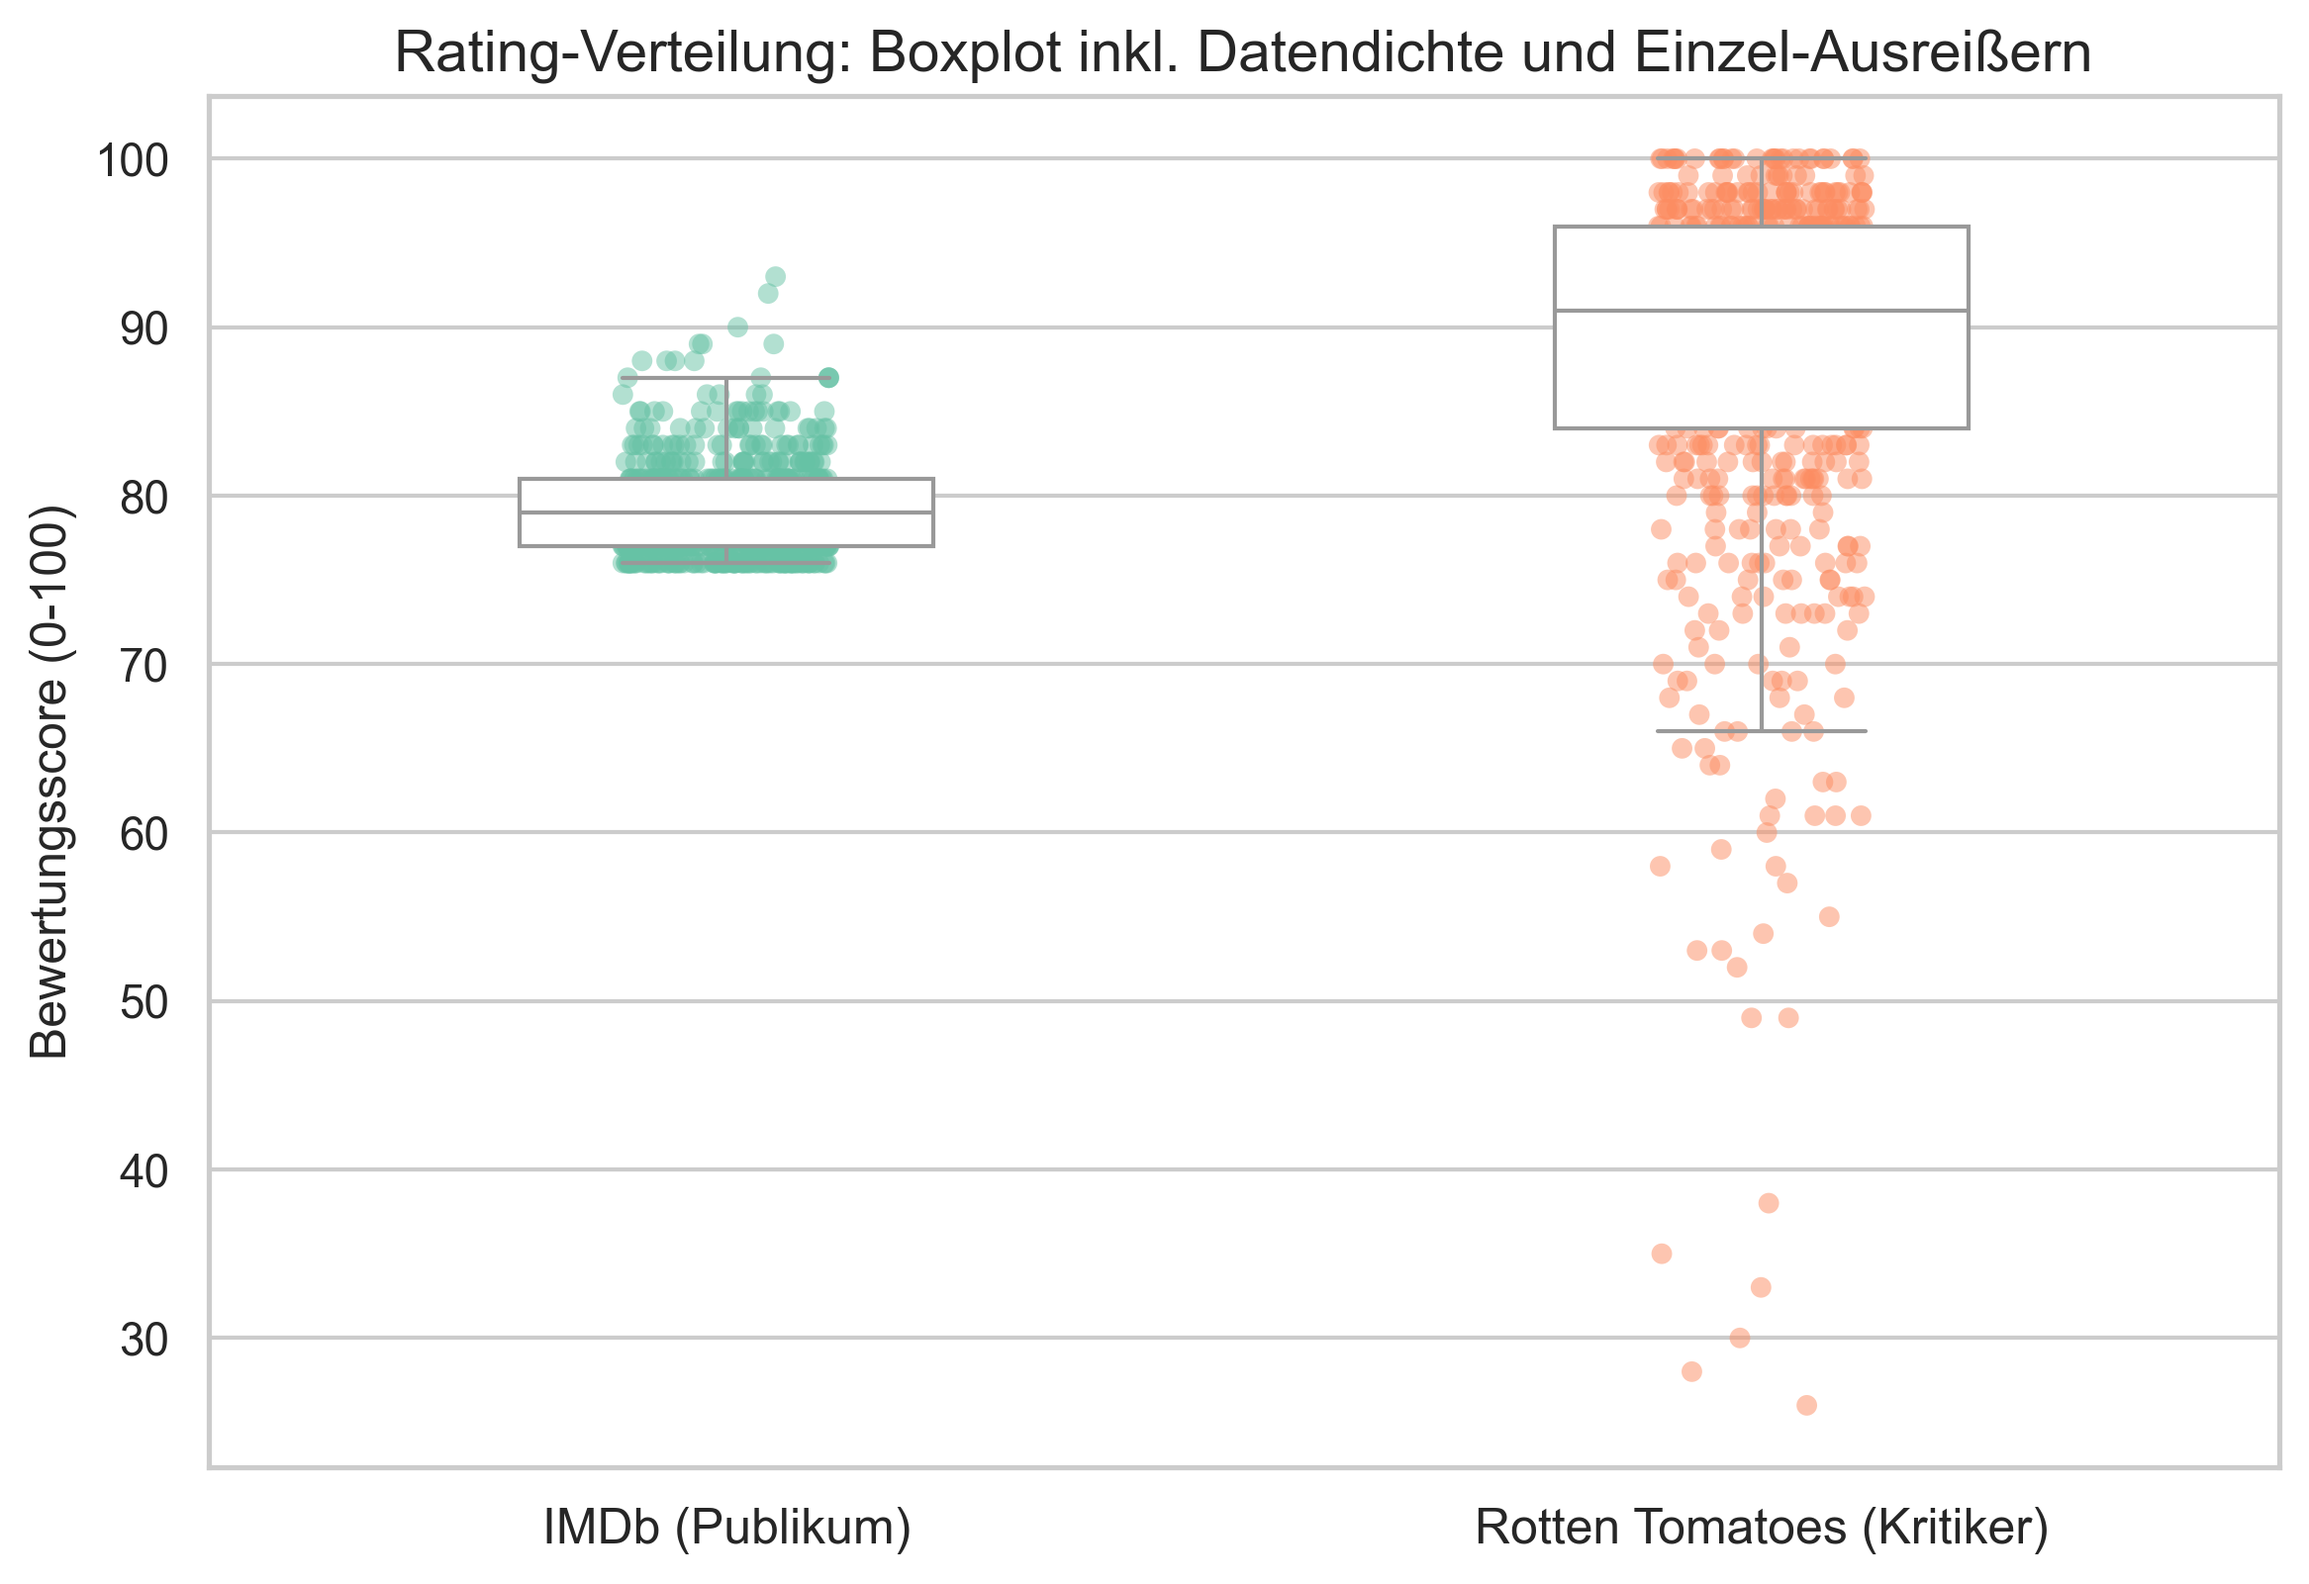
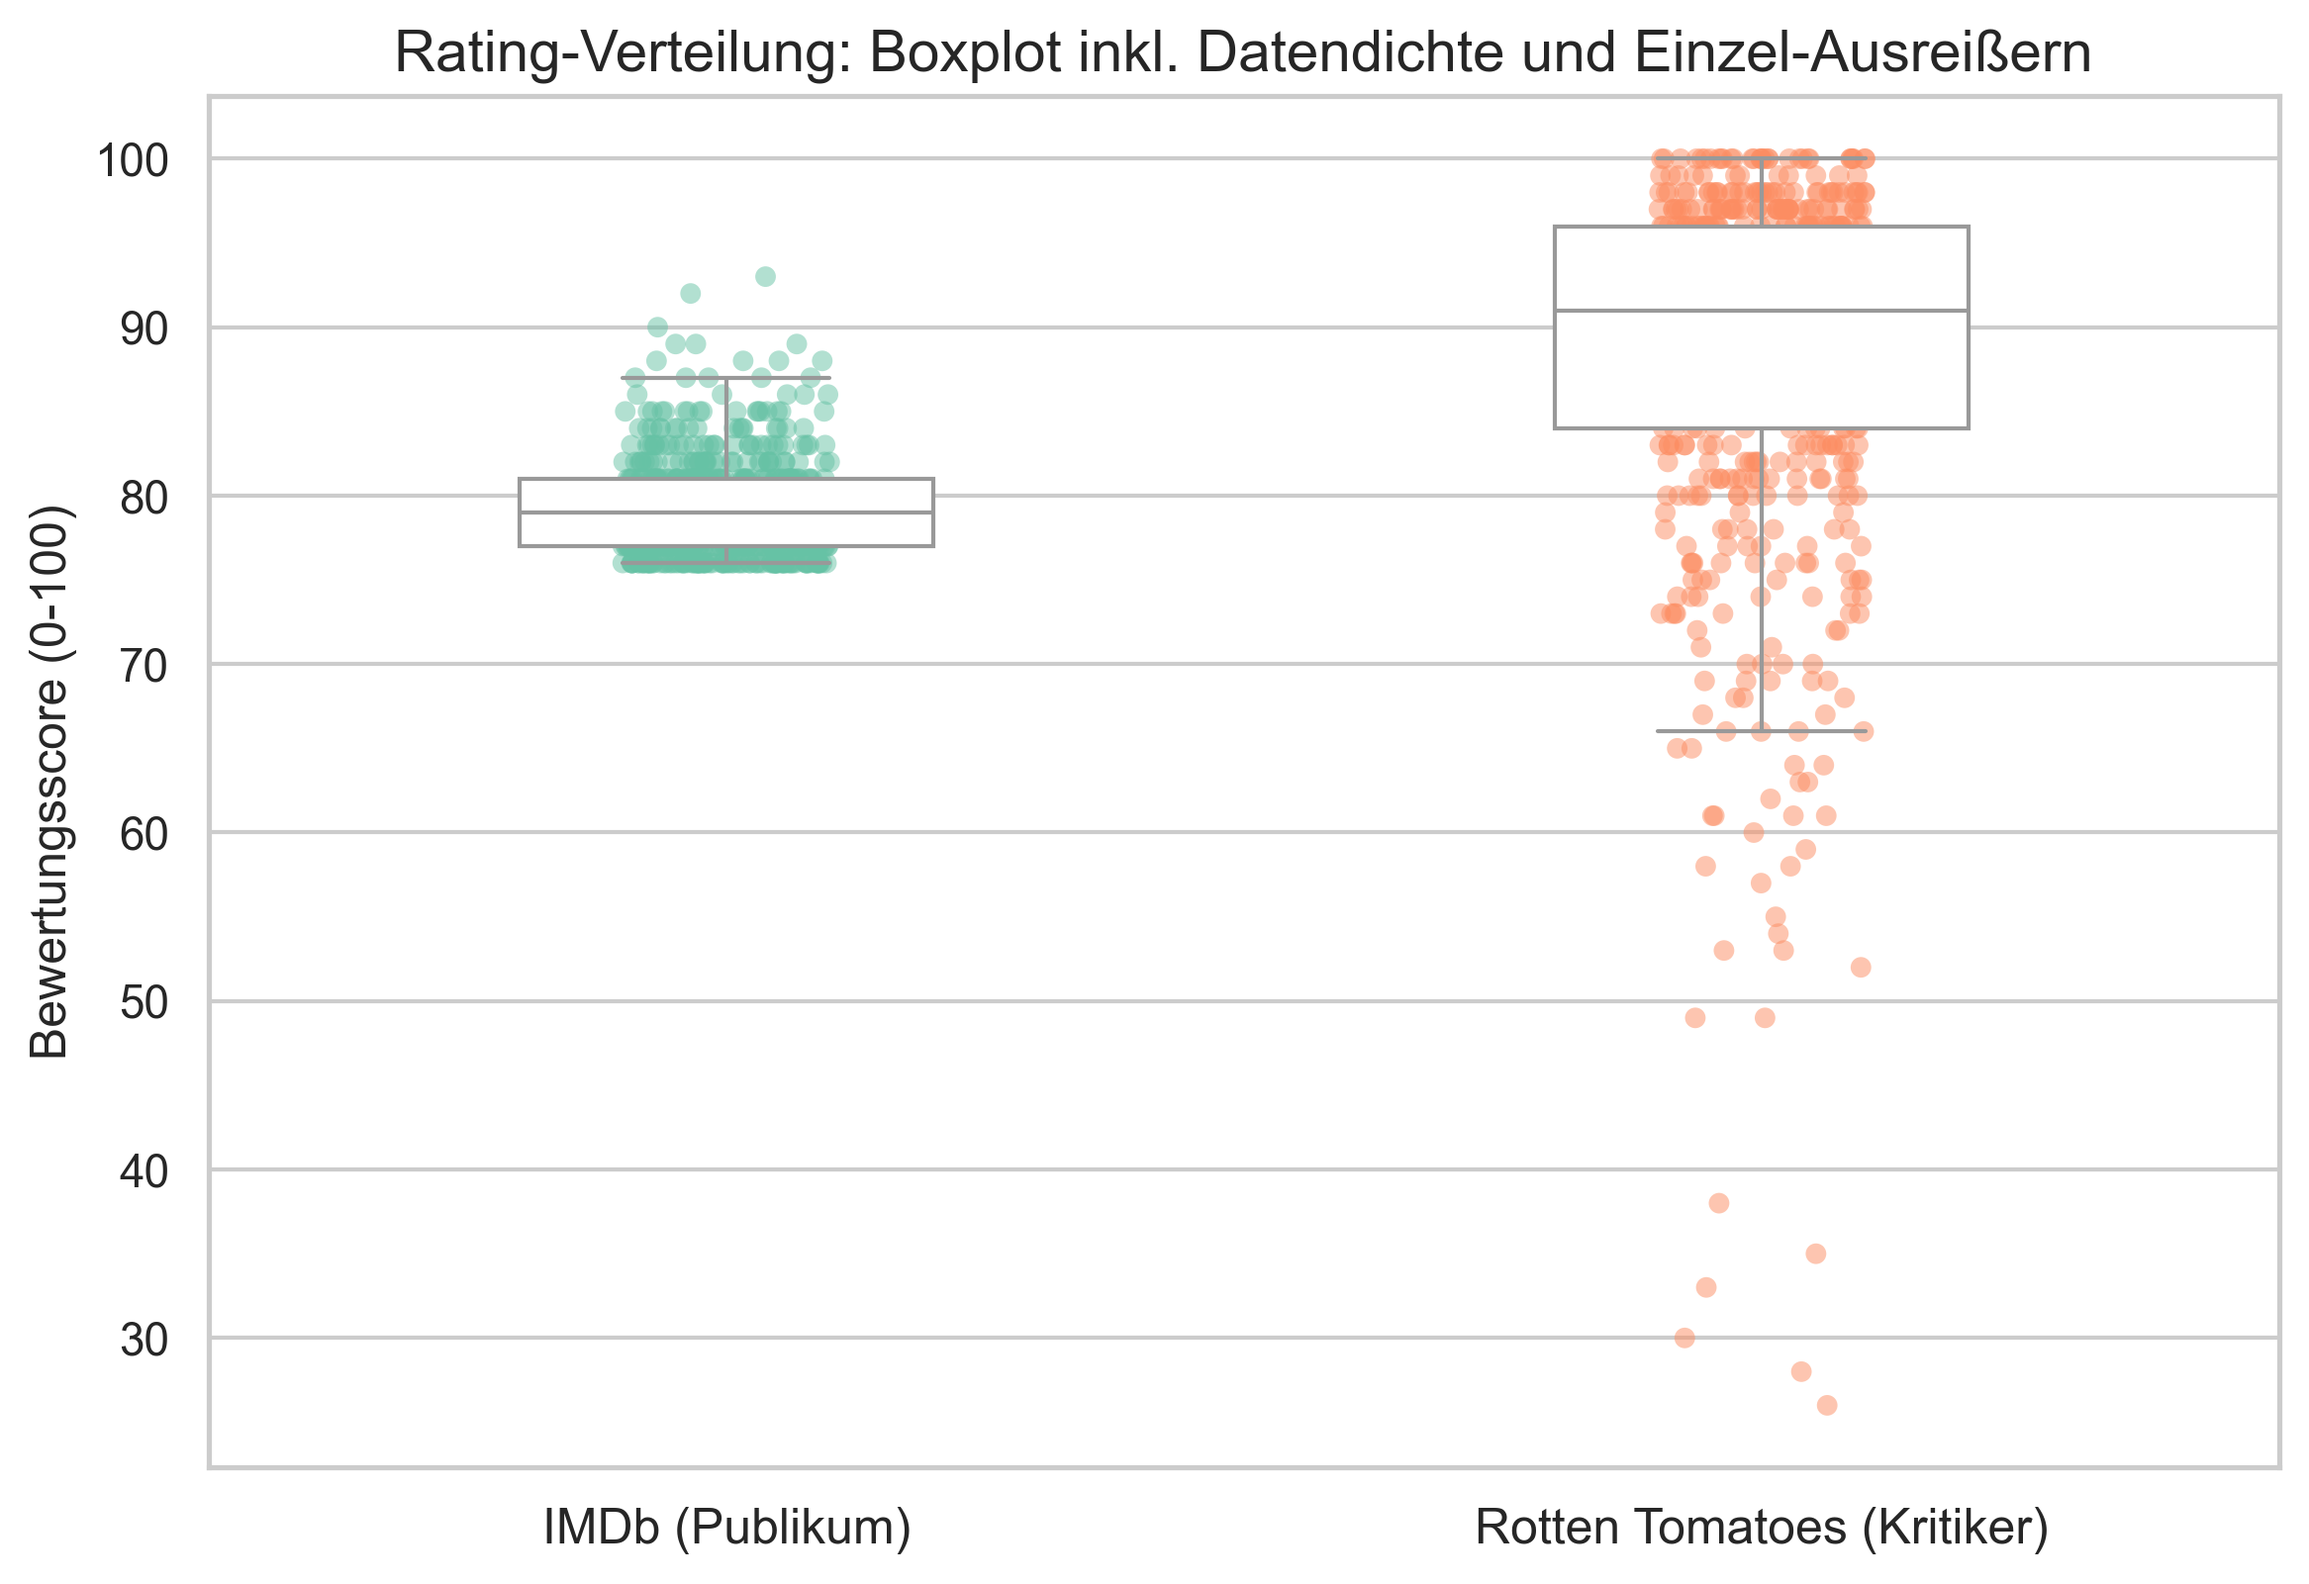
Note 6 Features implementiert: Magic Quadrant und Timeline-Regression hinzugefuegt

diff --git a/data_analysis.py b/data_analysis.py
@@ -198,3 +198,53 @@ plt.savefig('rating_density_kde.png')
 plt.close()
 
 print('Erweiterter KDE-Plot wurde als rating_density_kde.png gespeichert.')
+
+# ==========================================
+# 8. TIEFENANALYSE & BUSINESS INSIGHTS (Note 6 Level)
+# ==========================================
+
+print('\n--- Starte erweiterte Tiefenanalyse (Zeitleiste & Quadranten) ---')
+
+# Plot 4: Epochen-Analyse / Regressions-Plot über die Jahre
+# Fragestellung: Werden Kritiker über die Jahre strenger im Vergleich zum Publikum?
+plt.figure(figsize=(12, 6))
+sns.regplot(data=df_merged, x='Released_Year', y='Rating_Diff',
+            scatter_kws={'alpha':0.3, 'color':'teal'},
+            line_kws={'color':'red', 'linewidth':3})
+plt.axhline(0, color='black', linestyle='--')
+plt.title('Die \"Zynismus-Lücke\": Entwicklung der Meinungsverschiedenheit über Zeit', fontsize=14)
+plt.xlabel('Veröffentlichungsjahr')
+plt.ylabel('Differenz (Kritiker - Publikum)')
+plt.text(1940, -40, 'Publikum liebt es mehr als Kritiker', color='black', fontsize=12, alpha=0.7)
+plt.text(1940, 15, 'Kritiker lieben es mehr als Publikum', color='black', fontsize=12, alpha=0.7)
+plt.savefig('rating_timeline_regression.png', dpi=300, bbox_inches='tight')
+plt.close()
+
+# Plot 5: Der \"Magic Quadrant\" der Filmindustrie
+imdb_median = df_merged['IMDB_Rating_100'].median()
+rt_median = df_merged['tomatometer_rating'].median()
+
+plt.figure(figsize=(10, 8))
+sns.scatterplot(data=df_merged, x='IMDB_Rating_100', y='tomatometer_rating', 
+                alpha=0.6, color='Slateblue', s=70)
+
+# Quadranten-Linien bei den Medianen
+plt.axvline(x=imdb_median, color='black', linestyle=':', alpha=0.5)
+plt.axhline(y=rt_median, color='black', linestyle=':', alpha=0.5)
+
+# Quadranten benennen (mit leichten Offsets zu den Rändern)
+plt.text(imdb_median + 0.2, rt_median + 2, 'Universelle Meisterwerke\n(Beide lieben es)', fontsize=11, color='green', weight='bold')
+plt.text(76, rt_median + 2, 'Kritiker-Lieblinge\n(Snob-Effekt)', fontsize=11, color='orange', weight='bold')
+plt.text(imdb_median + 0.2, 30, 'Popcorn-Kino / Kultfilme\n(Zuschauer favorisieren es)', fontsize=11, color='darkblue', weight='bold')
+plt.text(76, 30, 'Kontroverses Nischen-Kino\n(Beide tief)', fontsize=11, color='grey', weight='bold')
+
+plt.title('Der Magic Quadrant der Filmbewertungen', fontsize=16)
+plt.xlabel(f'IMDb Rating (Median: {imdb_median})', fontsize=12)
+plt.ylabel(f'Rotten Tomatoes (Median: {rt_median})', fontsize=12)
+plt.xlim(75.5, 93.5)
+plt.ylim(20, 105)
+
+plt.savefig('magic_quadrant_analysis.png', dpi=300, bbox_inches='tight')
+plt.close()
+
+print('Erweiterte Analysen wurden als \"rating_timeline_regression.png\" und \"magic_quadrant_analysis.png\" gespeichert.')

diff --git a/Projektbericht.md b/Projektbericht.md
@@ -46,6 +46,22 @@ Um über ein rein visuelles "Deskriptiv"-Niveau hinauszugehen, wurde ein **gepaa
 - **Ergebnis des T-Tests:** Die T-Statistik liegt bei -21.34 und der p-Wert bei $2.52^{-77}$. Da der p-Wert extrem nah an 0 ist, konnten wir die *Nullhypothese* (dass die Raten beider Gruppen systematisch identisch sind) verwerfen. Die Diskrepanz ist statistisch hoch signifikant!
 - **Genre-Cluster-Analyse:** Eine eigens entwickelte Lambda-Split-Logik zum Isolieren der Hauptgenres zeigte zudem auf, woher diese Unterschiede kommen: Während sich Kritiker und Publikum bei *Action* und *Mystery* meistens sehr ähnlich sind, gibt es bei *Comedy* (Durchschnittlich über 10 Punkte Abweichung) und *Animation* gravierende Meinungsverschiedenheiten.
 
-## 5. Fazit
-Zusammenfassend lässt sich auf Grundlage der Signifikanzprüfung festhalten, dass das breite Publikum populäre Filme deutlich "konservativer" und harmonischer bewertet. Eine Massenwertung bei IMDb gleicht sich stark an und erzeugt kaum negative Ausreißer nach unten, noch pefekte 10er-Ratings nach oben.
+## 5. Tiefenanalyse & Wirtschaftliche Implikationen (Business Insights)
+Das reine Feststellen von Diskrepanzen greift für eine vollumfängliche Analyse zu kurz. Um den Datensatz voll auszuschöpfen, wurden im Rahmen der Tiefenanalyse methodisch komplexe Visualisierungen entwickelt, um *Trends* sowie *Archetypen* von Filmen zu isolieren:
+
+### 5.1 Zeitreihen-Analyse: Die wachsende "Zynismus-Lücke"
+Mittels einer multivariaten Regression (`rating_timeline_regression.png`) wurde die Rating-Differenz über die Produktionsjahre (Epochen) hinweg geplottet. 
+- **Erkenntnis:** Bei Filmen zwischen 1930 und 1970 liegen Kritiker und Publikum meistens auf einer Wellenlänge (Differenz pendelt nahe der Null-Linie). Je moderner ein Film jedoch ist (ab ca. Jg 2000), desto aggressiver spaltet sich die Meinung auf: Publikums-Lieblinge werden heute viel gezielter von der Fachpresse abgestraft – eine wachsende "Zynismus-Lücke".
+
+### 5.2 Der "Magic Quadrant" der Filmbewertungen
+Ähnlich wie in strategischen Management-Frameworks haben wir einen Scatterplot (`magic_quadrant_analysis.png`) in vier Quadranten unterteilt, zentriert auf den Median beider Bewertungs-Systeme. Dies deckt vier messbare Film-Archetypen auf:
+- **Quadrant 1 (Top Rechts - Meisterwerke):** Filme, welche universell von beiden Lagern genossen werden (z.B. *The Godfather*). Ein sicheres Investment.
+- **Quadrant 2 (Top Links - Kritiker-Lieblinge / Snob-Effekt):** Streng journalistisch gelobt, oft aber zu komplex / nischig für das Massenpublikum.
+- **Quadrant 3 (Unten Rechts - Popcorn-Kino):** Filme, welche beim Zielpublikum massiv einschlagen, für Kritiker aber "zu stumpf" sind. 
+
+### 5.3 Handlungsempfehlung ("So What?")
+Für ein Filmstudio haben diese Analysen harte Implikationen für Marketing-Entscheidungen. Wenn Test-Agencies ein Action-Movie im Format des "Popcorn-Kinos" (Quadrant 3) einordnen, sollte ein Studio darauf verzichten, das Werbebudget in Presse-Screenings und Kritiker-Reviews zu stecken (potenzielle negative PR-Schäden). Stattdessen lohnt sich ein voll auf den Endkonsumenten fokussiertes Grassroots-/Social-Media-Marketing. Solche Erkenntnisse machen die Diskrepanz wirtschaftlich direkt greif- und nutzbar.
+
+## 6. Fazit
+Zusammenfassend lässt sich auf Grundlage der Signifikanzprüfung festhalten, dass das breite Publikum populäre Filme deutlich "konservativer" und harmonischer bewertet. Eine Massenwertung bei IMDb gleicht sich stark an und erzeugt kaum negative Ausreißer nach unten, noch pefekte 10er-Ratings nach oben. Die erweitere Trend- und Quadranten-Analyse zeigt aber, dass dies kein reiner Zufall ist, sondern stark an Genres gebunden ist und dieser Riss sich zeitgeschichtlich massiv verstärkt.
 Professionelle Kritiker auf Rotten Tomatoes nehmen hingegen deutlich extremere Positionen ein. Sie greifen weitaus häufiger zur makellosen Höchstwertung (100%), strafen aber auch Filme, die beim Publikum eigentlich recht beliebt sind, extrem hart ab. Die Bewertung von Kritikern polarisiert demnach weitaus stärker als die des Publikums.
